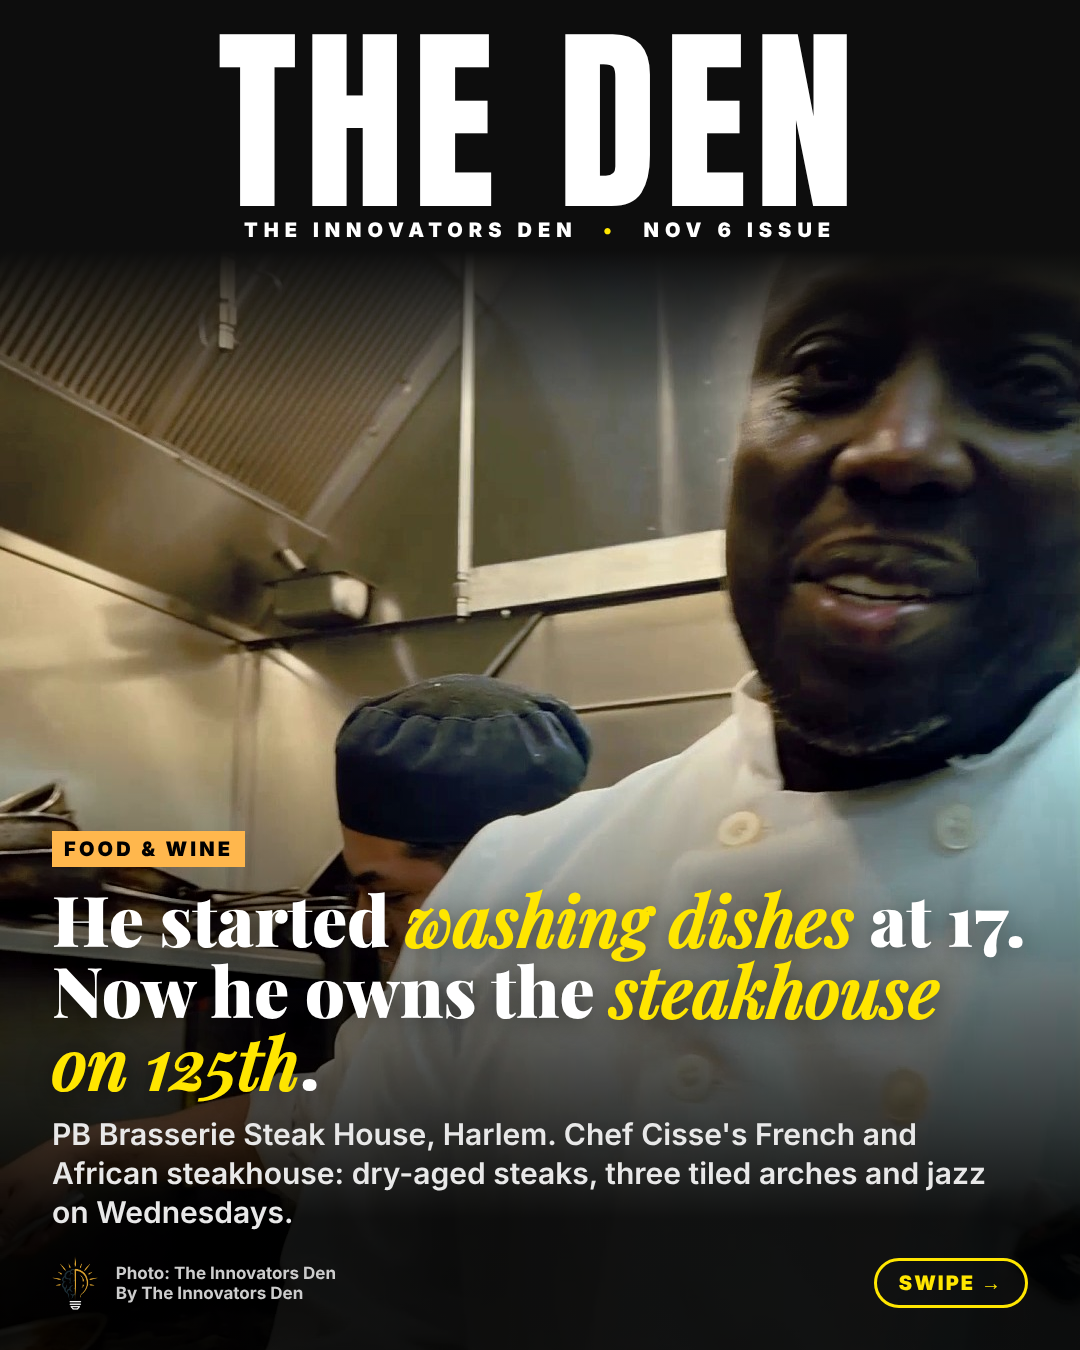
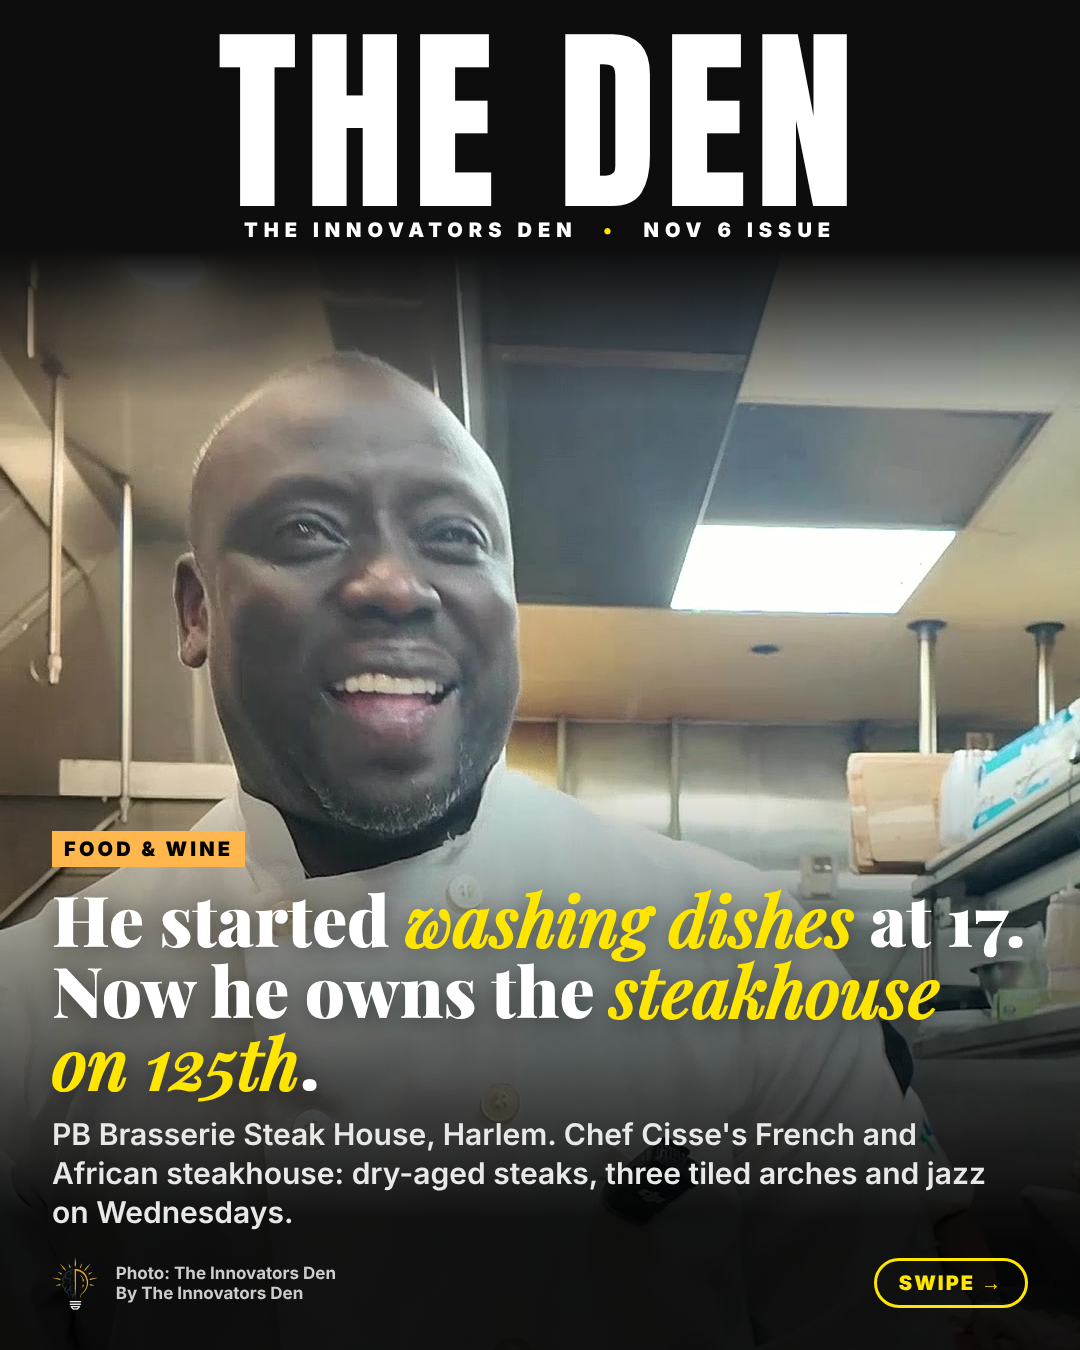
Re-post PB Brasserie IG carousel with a front-facing cover of Chef Cisse, tagged @cissethechef; delete the old carousel
publish.py: ig_delete (remove earlier IG posts), only (limit a re-post to some platforms), ig_user_tags (tag people on slides)

Claude-Session: https://claude.ai/code/session_012mBeivoeARaDTGjfC63k1h

diff --git a/publish.py b/publish.py
@@ -83,7 +83,9 @@ def instagram(post, urls):
         for attempt in range(4):  # Instagram sometimes times out fetching freshly committed images; wait and retry
             try:
                 item = {"image_url": u, "is_carousel_item": "true", "access_token": tok}
-                r, _ = _with_extras(f"{base}/{uid}/media", item, {"alt_text": alts[i]})
+                tags = (post.get("ig_user_tags") or {}).get(str(i))  # people tagged on this slide: [{username, x, y}]
+                r, _ = _with_extras(f"{base}/{uid}/media", item,
+                                    {"alt_text": alts[i], "user_tags": json.dumps(tags) if tags else None})
                 break
             except RuntimeError as e:
                 if attempt == 3 or not re.search(r"Timeout|2207003|is_transient\":true|download", str(e)):
@@ -332,7 +334,19 @@ def main():
     if story_files and os.environ.get("STORIES", "1") != "0":
         story_urls = [f"{base.rstrip('/')}/{run_id}/{p.name}" for p in story_files]
         jobs.insert(1, ("instagram_stories", instagram_stories, story_urls))
+    # A re-post can replace an earlier Instagram post: "ig_delete": [media ids] removes them first
+    if post.get("ig_delete") and not DRY:
+        host = os.environ.get("IG_GRAPH_HOST") or "graph.instagram.com"
+        ver, tok = os.environ.get("IG_API_VERSION", "v21.0"), os.environ["IG_ACCESS_TOKEN"]
+        for mid in post["ig_delete"]:
+            try:
+                r, _ = http("DELETE", f"https://{host}/{ver}/{mid}?access_token={tok}")
+                results[f"instagram_delete_{mid}"] = {"ok": True, **r}; print(f"instagram: deleted {mid} {r}")
+            except Exception as e:
+                results[f"instagram_delete_{mid}"] = {"ok": False, "error": str(e)[:400]}; print(f"instagram: delete {mid} FAILED {e}")
+    only = set(post.get("only") or [])  # a re-post can go to just some platforms, e.g. ["instagram"]
     for name, fn, arg in jobs:
+        if only and name not in only: continue
         if not enabled(name.split("_")[0]): continue
         if DRY:
             results[name] = {"dry_run": True}; print(f"[dry] {name}"); continue
